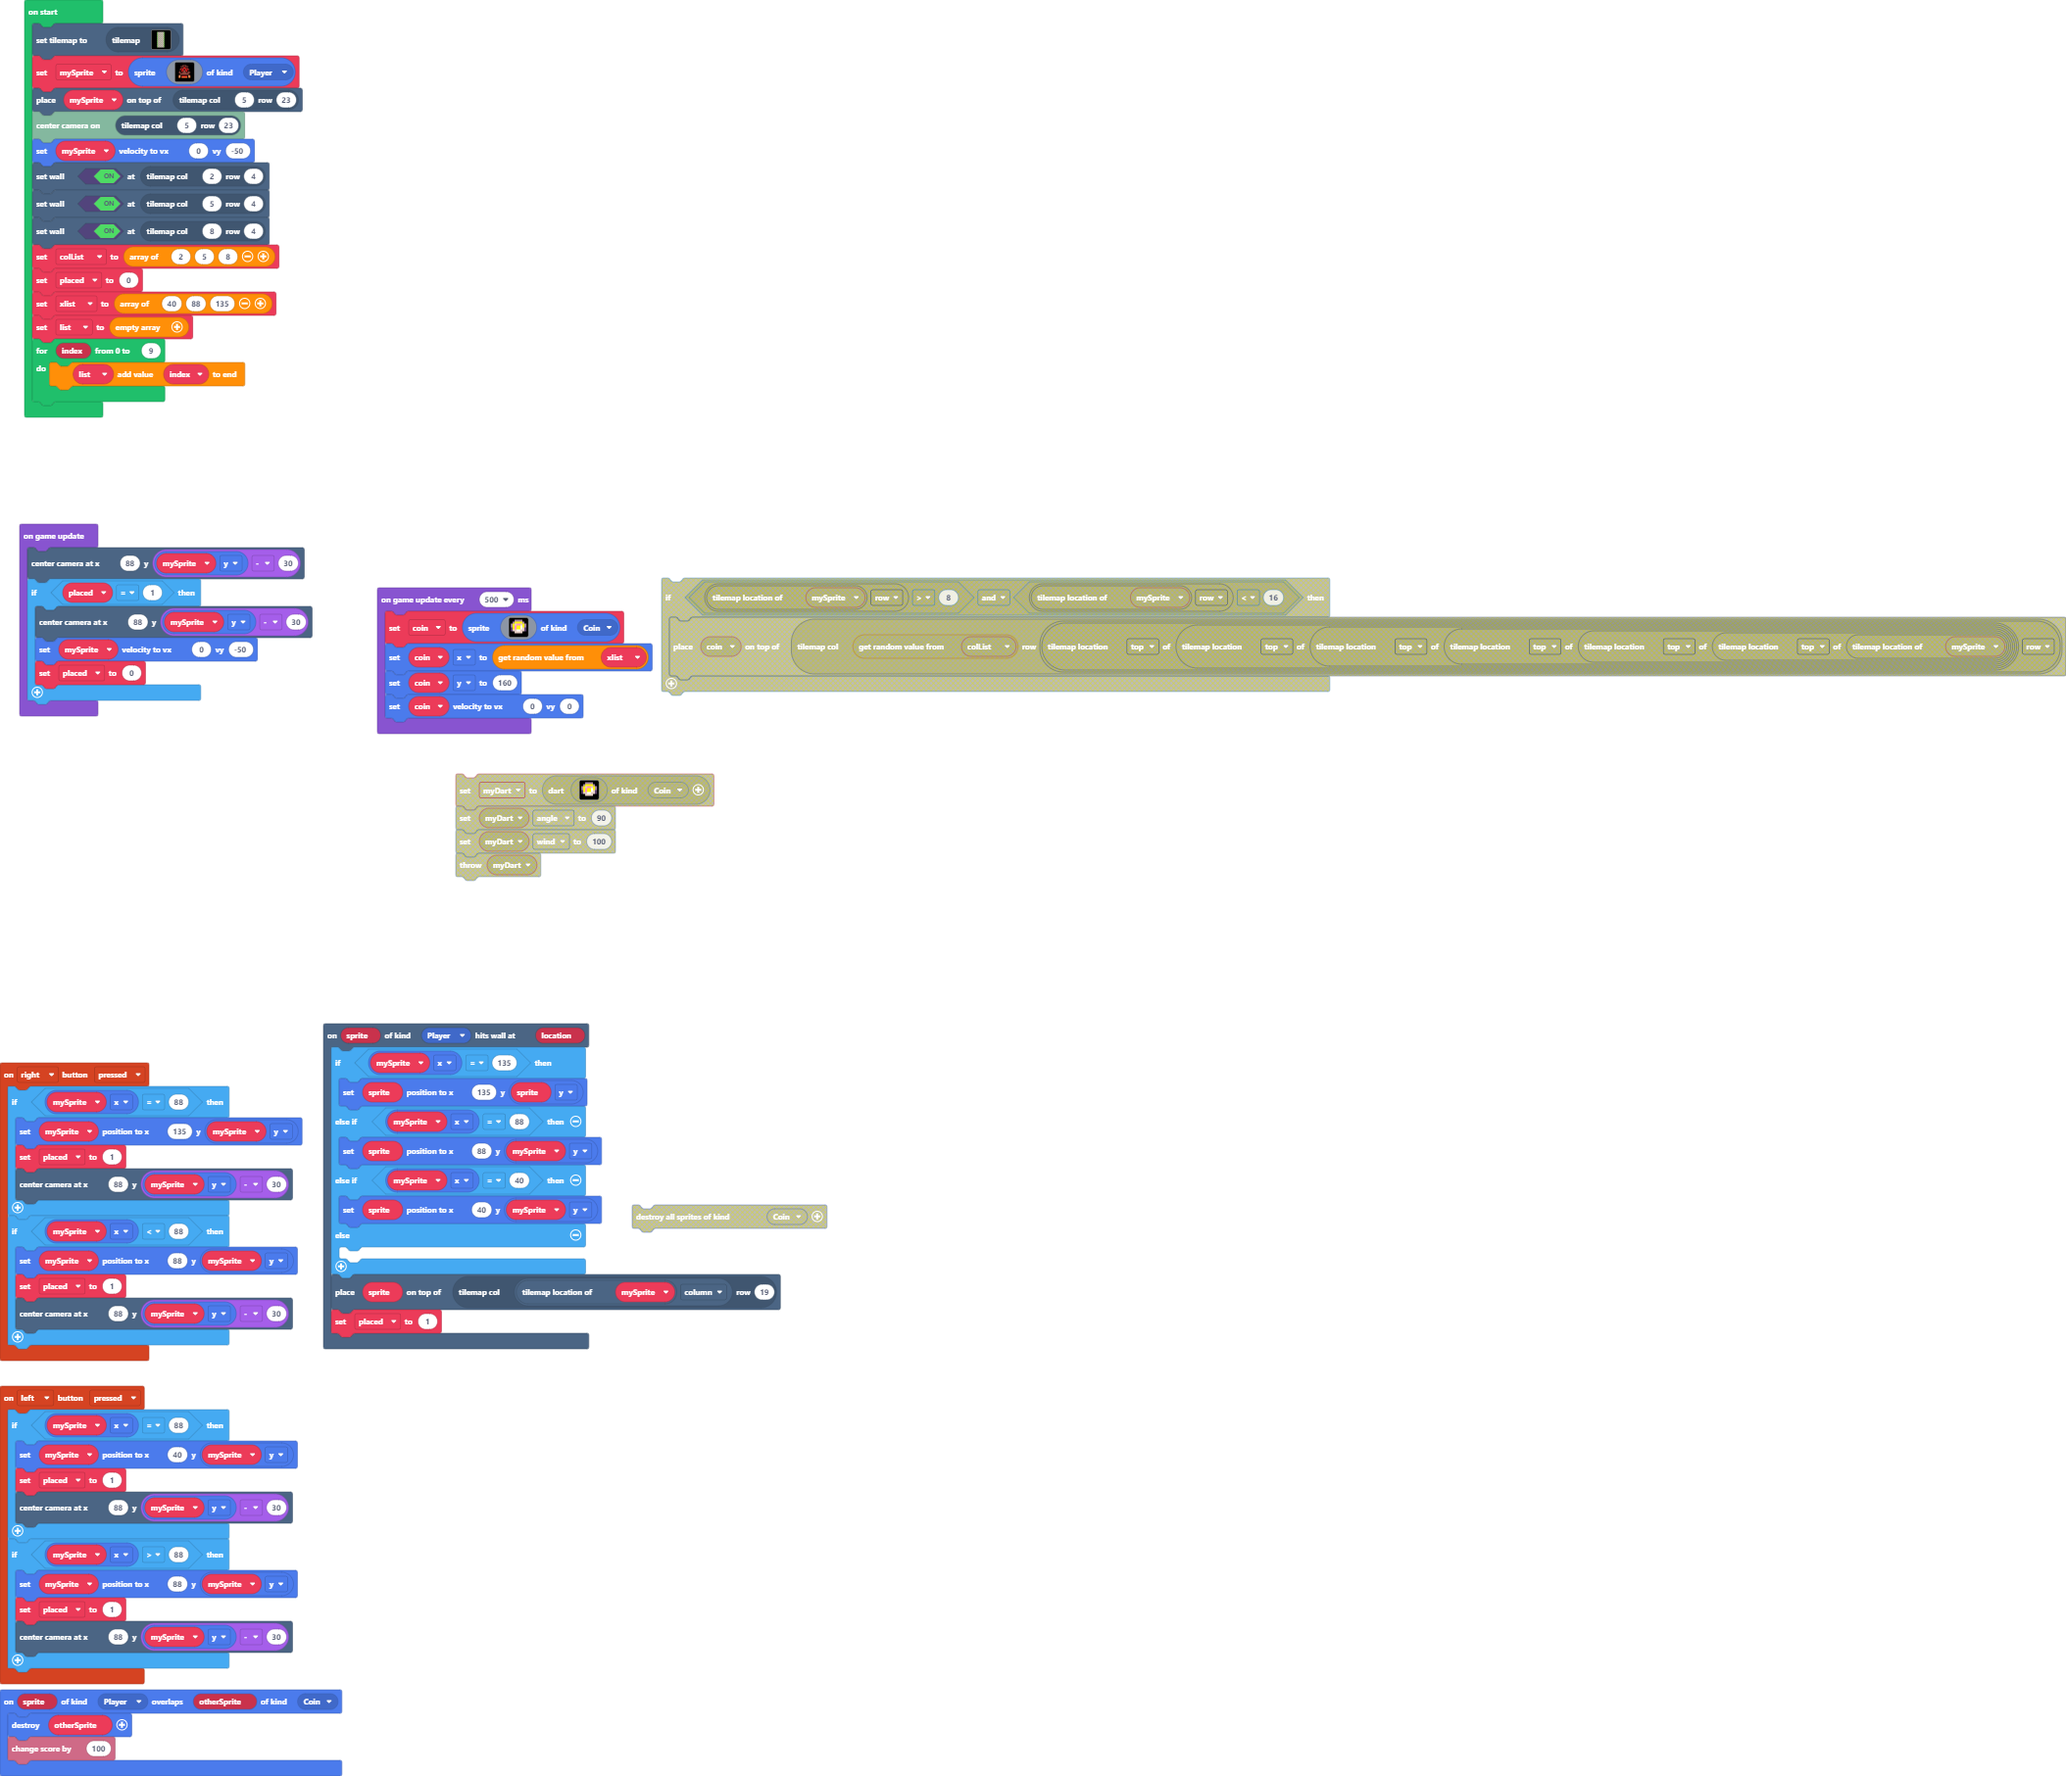
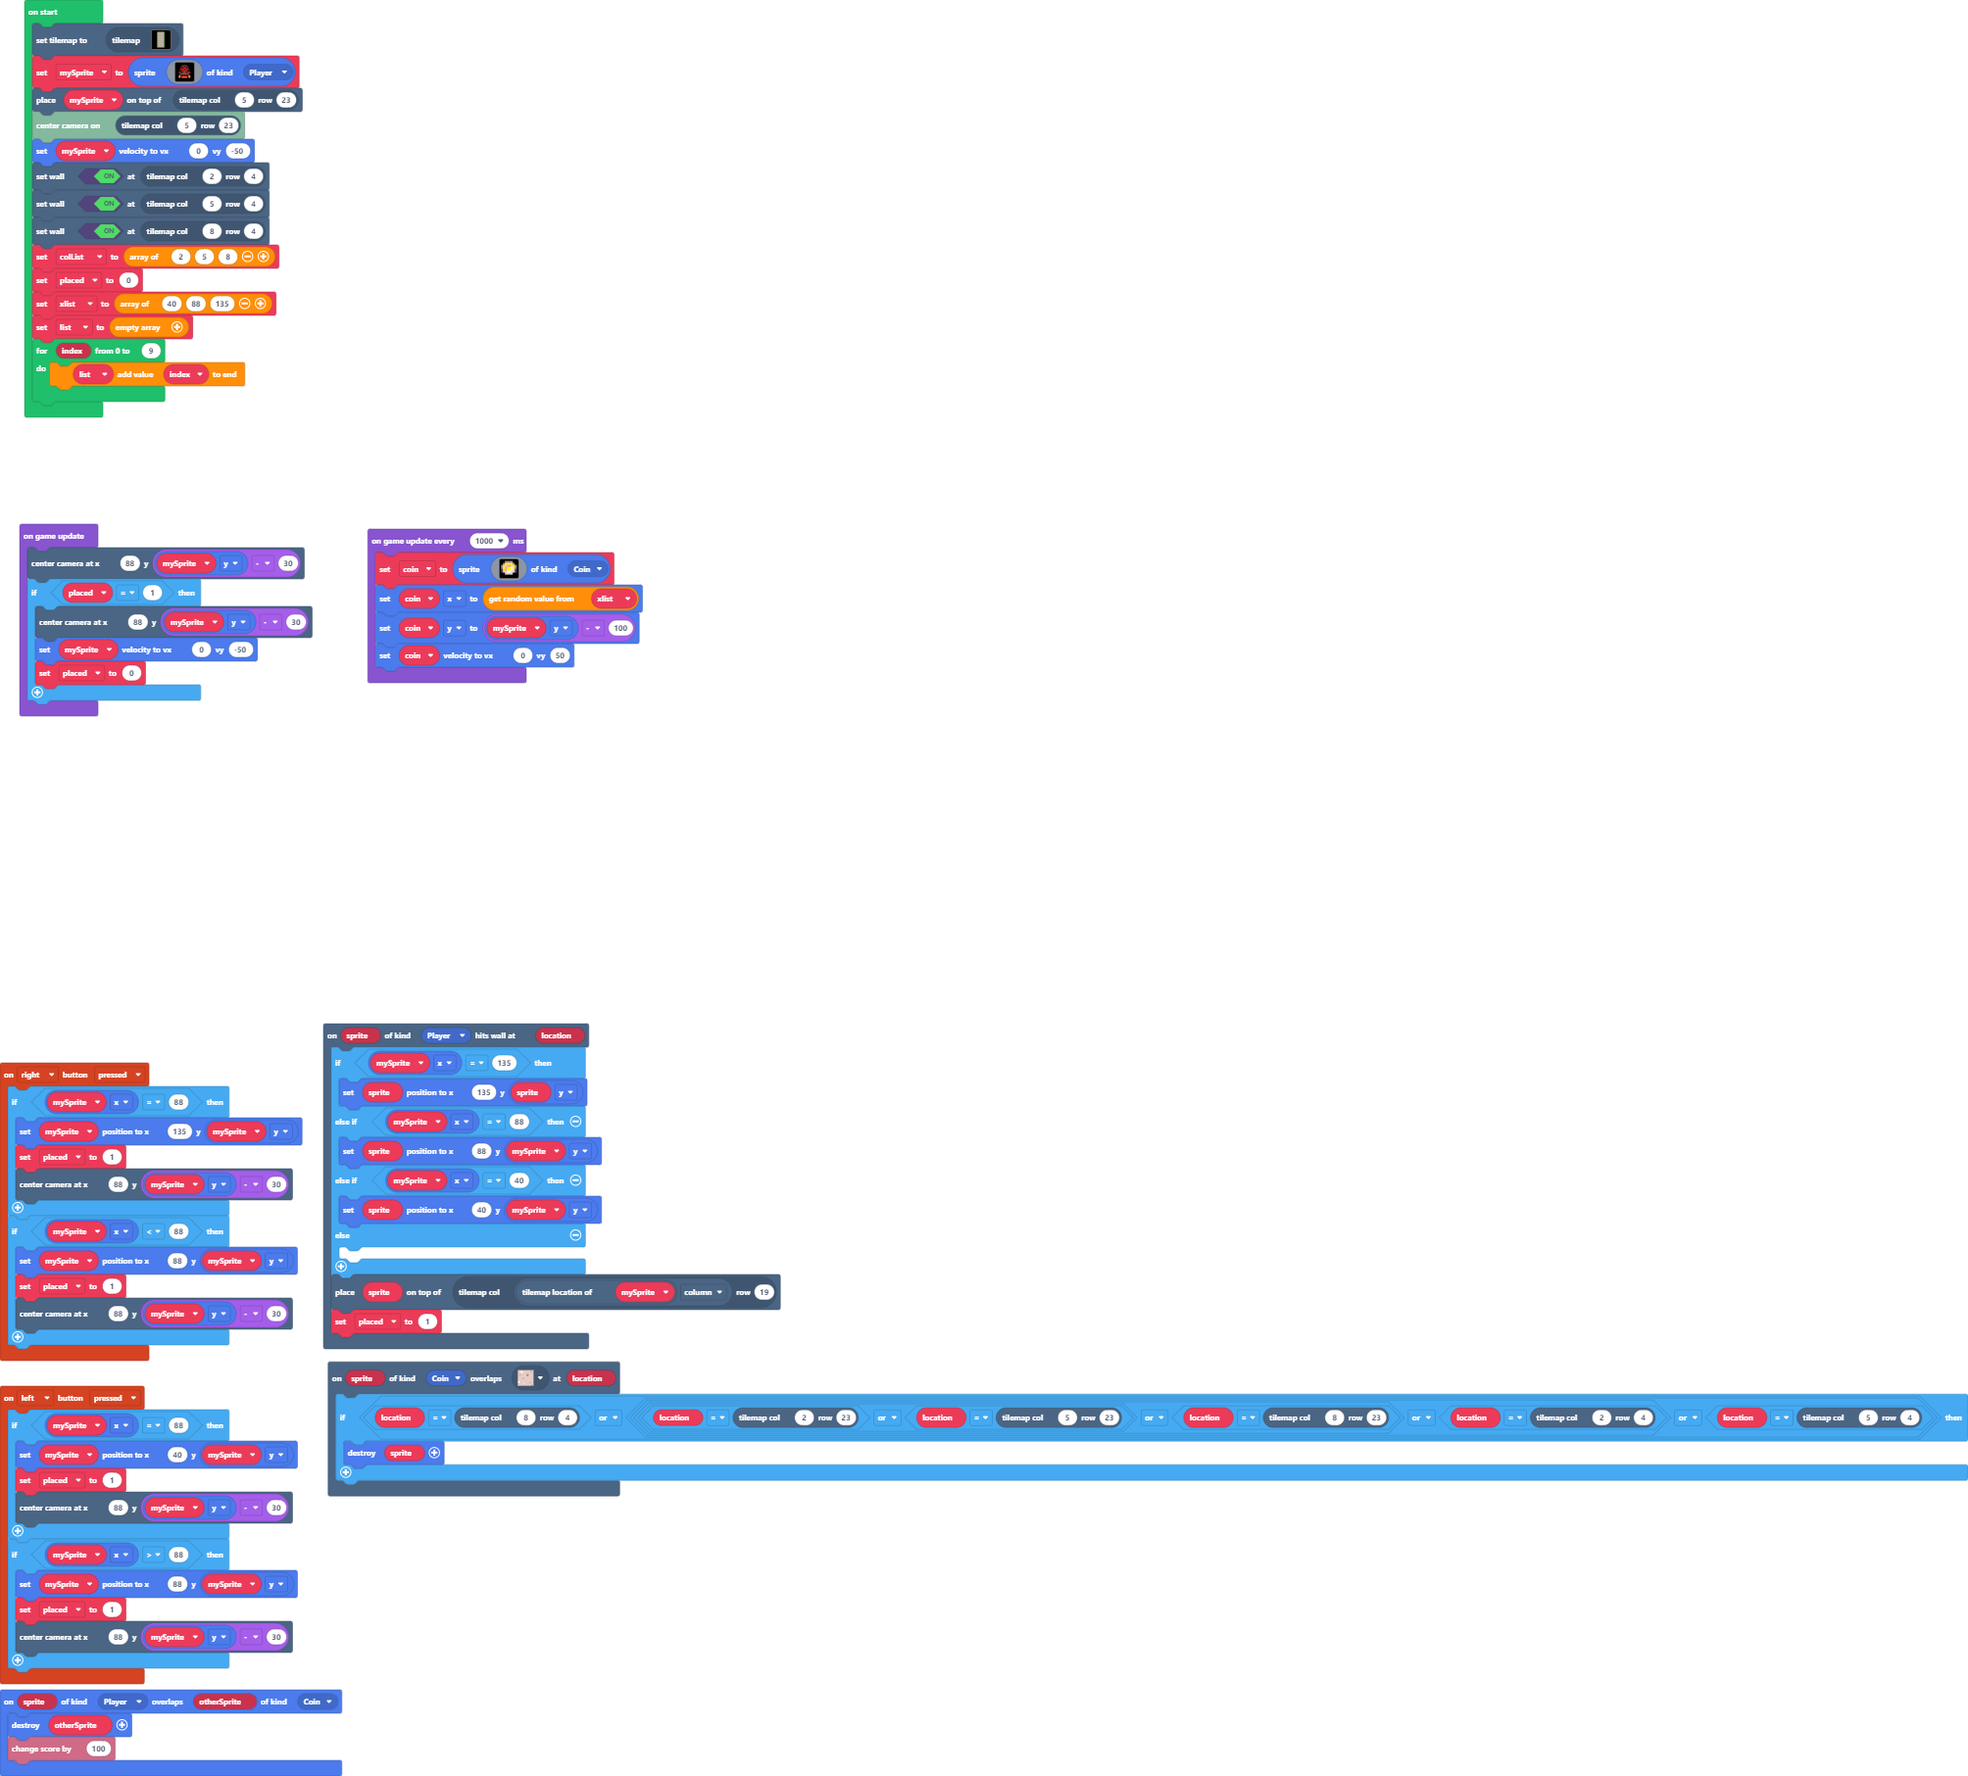
245484

diff --git a/main.ts b/main.ts
@@ -42,6 +42,11 @@ controller.right.onEvent(ControllerButtonEvent.Pressed, function () {
         scene.centerCameraAt(88, mySprite.y - 30)
     }
 })
+scene.onOverlapTile(SpriteKind.Coin, sprites.castle.tilePath5, function (sprite, location) {
+    if (location == tiles.getTileLocation(8, 4) || (location == tiles.getTileLocation(2, 23) || location == tiles.getTileLocation(5, 23) || location == tiles.getTileLocation(8, 23) || location == tiles.getTileLocation(2, 4) || location == tiles.getTileLocation(5, 4))) {
+        sprite.destroy()
+    }
+})
 let coin: Sprite = null
 let placed = 0
 let mySprite: Sprite = null
@@ -68,9 +73,9 @@ game.onUpdate(function () {
         placed = 0
     }
 })
-game.onUpdateInterval(500, function () {
+game.onUpdateInterval(1000, function () {
     coin = sprites.create(assets.image`Coin`, SpriteKind.Coin)
     coin.x = xlist._pickRandom()
-    coin.y = 160
-    coin.setVelocity(0, 0)
+    coin.y = mySprite.y - 100
+    coin.setVelocity(0, 50)
 })
